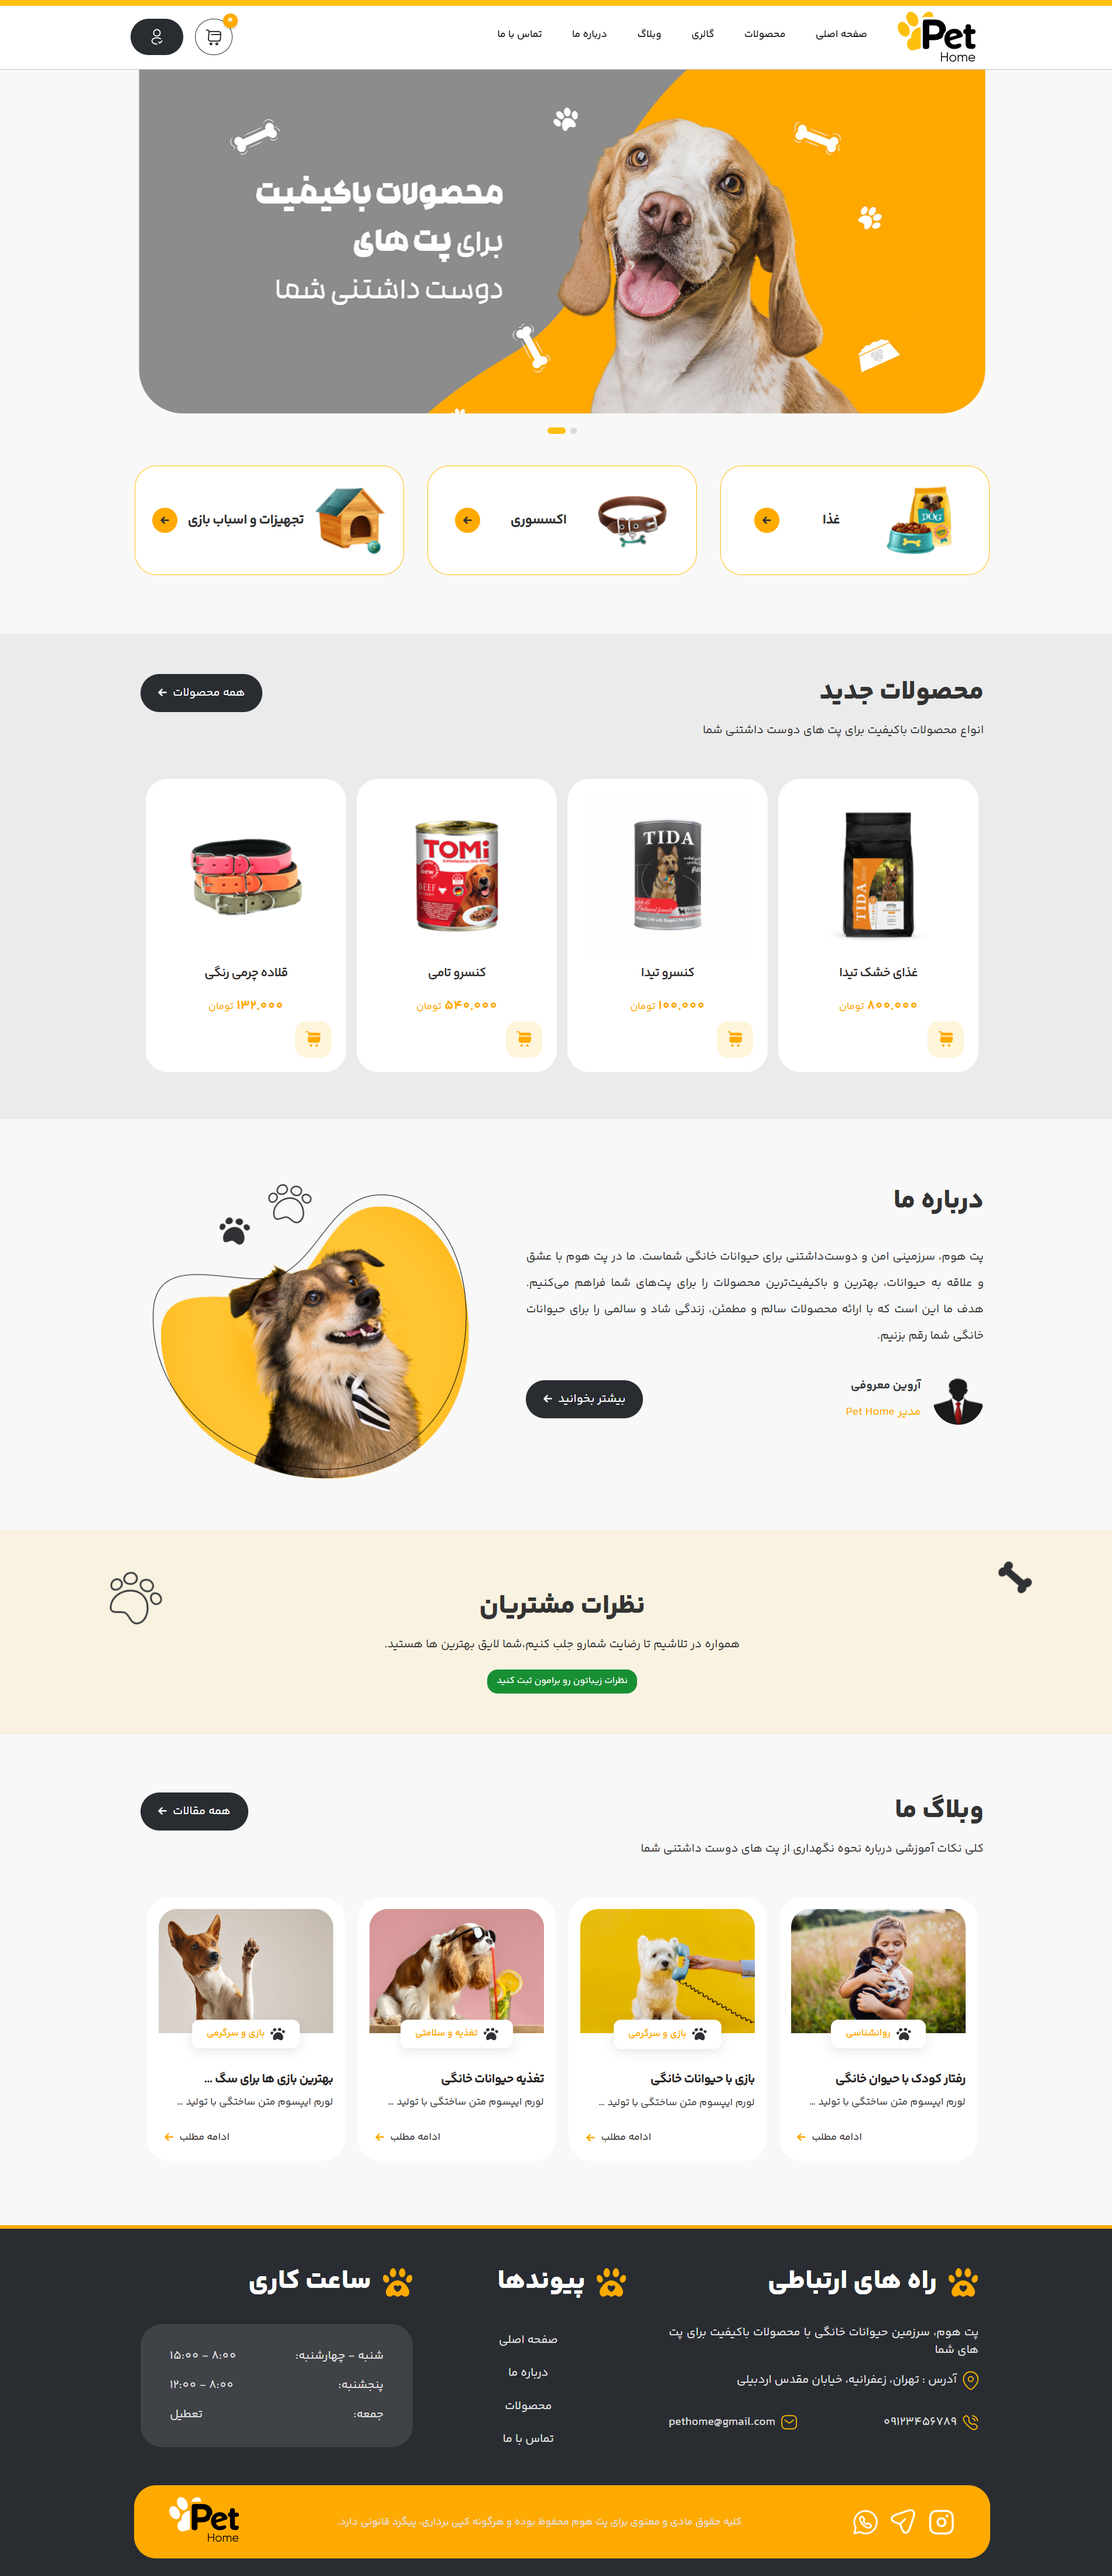
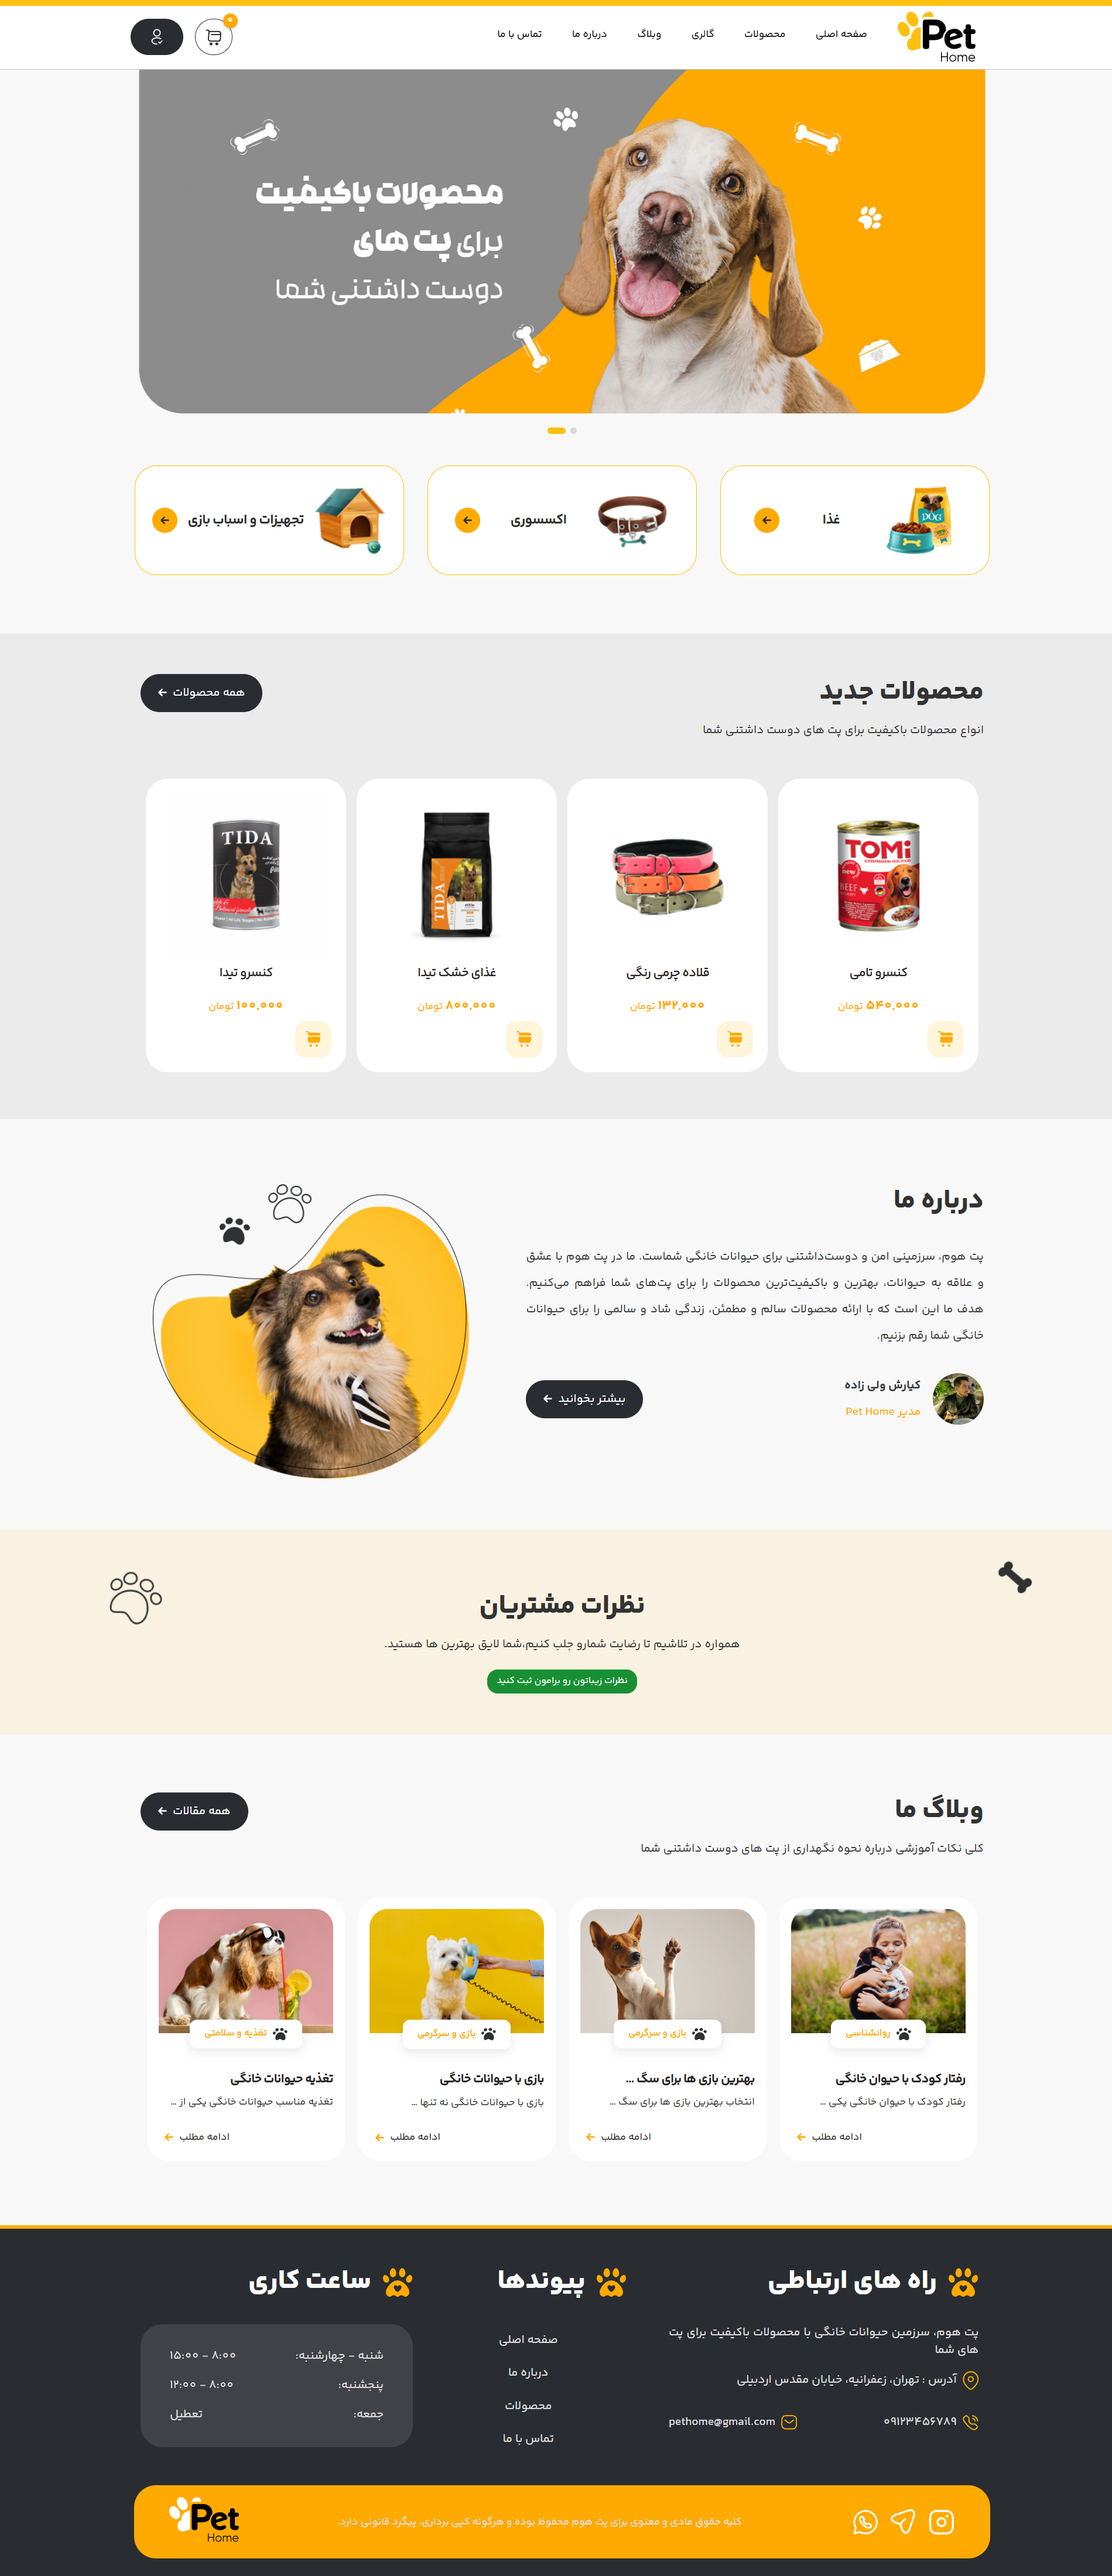
Update Project

diff --git a/home/templates/home/about_us.html b/home/templates/home/about_us.html
@@ -51,7 +51,7 @@
                         شویم که بهترین گزینه برای حیوانات خانگی شما هستند. تیم ما متشکل از افرادی است که عاشق حیوانات
                         هستند و همواره در تلاشند تا نیازهای شما و پتهای دوستداشتنیتان را به بهترین شکل برآورده
                         کنند. تیم پت هوم متشکل از افراد متخصص و دلسوز است که با تجربه و دانش خود، همواره در کنار شما
-                        هستند. آروین معروفی، مدیر پت هوم، با سالها تجربه در زمینه حیوانات خانگی، هدایت این تیم را بر
+                        هستند. کیارش ولی زاده، مدیر پت هوم، با سالها تجربه در زمینه حیوانات خانگی، هدایت این تیم را بر
                         عهده دارد و اطمینان میدهد که هر محصولی که از پت هوم خریداری میکنید، با بالاترین استانداردهای
                         کیفیت ارائه میشود. ما در پت هوم به شما قول میدهیم که بهترین تجربه خرید را برای شما و پتهای
                         دوستداشتنیتان فراهم کنیم. به خانواده پت هوم بپیوندید و از خدمات و محصولات ما لذت ببرید. با هم
@@ -59,9 +59,9 @@
 
                     <div class="d-flex align-items-center justify-content-between mb-5 d-xs-block">
                         <div class="d-flex flex-row align-items-center">
-                            <img src="{% static 'main/Img/manager.png' %}" class="img-fluid rounded-circle ml-3 pic55">
+                            <img src="{% static 'main/Img/manager.jpg' %}" class="img-fluid rounded-circle ml-3 pic55">
                             <div class="py-2">
-                                <p class="text-dark bottom_p YekanBakhFaNum-Bold">آروین معروفی</p>
+                                <p class="text-dark bottom_p YekanBakhFaNum-Bold">کیارش ولی زاده</p>
                                 <span class="color-orange">مدیر Pet Home</span>
                             </div>
                         </div>

diff --git a/home/templates/home/home.html b/home/templates/home/home.html
@@ -132,9 +132,9 @@
                         که با ارائه محصولات سالم و مطمئن، زندگی شاد و سالمی را برای حیوانات خانگی شما رقم بزنیم.</p>
                     <div class="d-flex align-items-center justify-content-between">
                         <div class="d-flex flex-row align-items-center">
-                            <img src="{% static 'main/Img/manager.png' %}" class="img-fluid rounded-circle ml-3 pic55">
+                            <img src="{% static 'main/Img/manager.jpg' %}" class="img-fluid rounded-circle ml-3 pic55">
                             <div class="py-2">
-                                <p class="text-dark bottom_p YekanBakhFaNum-Bold">آروین معروفی</p>
+                                <p class="text-dark bottom_p YekanBakhFaNum-Bold">کیارش ولی زاده</p>
                                 <span class="color-orange">مدیر Pet Home</span>
                             </div>
                         </div>
